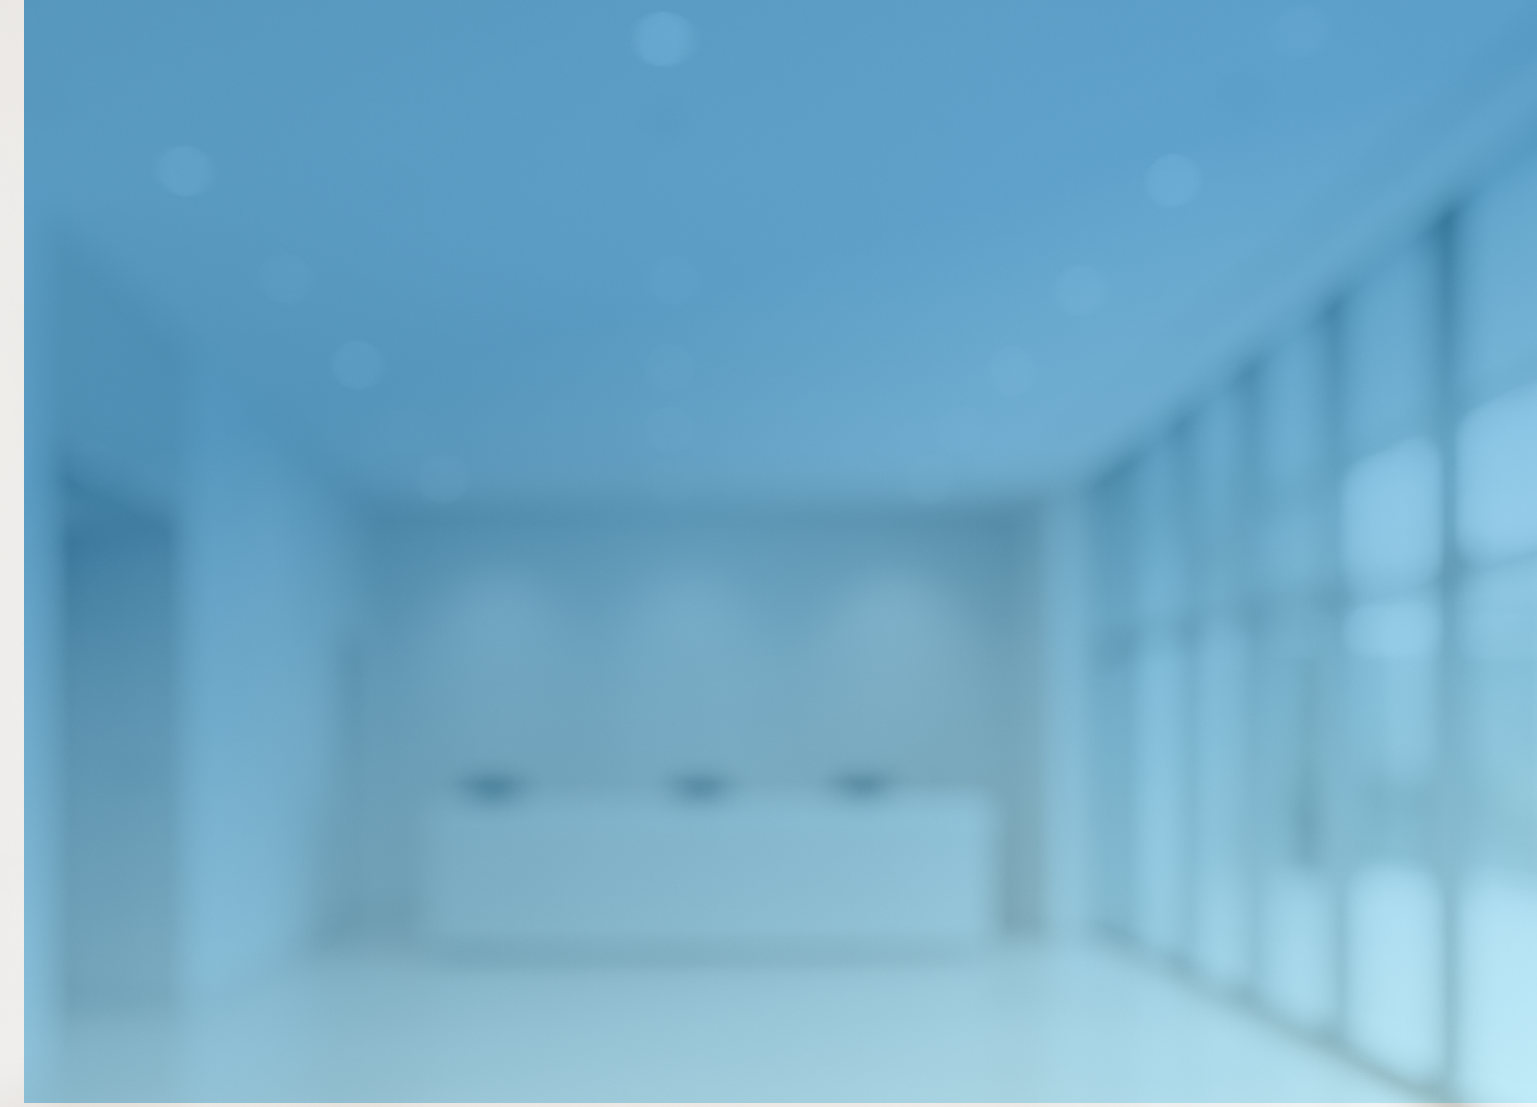
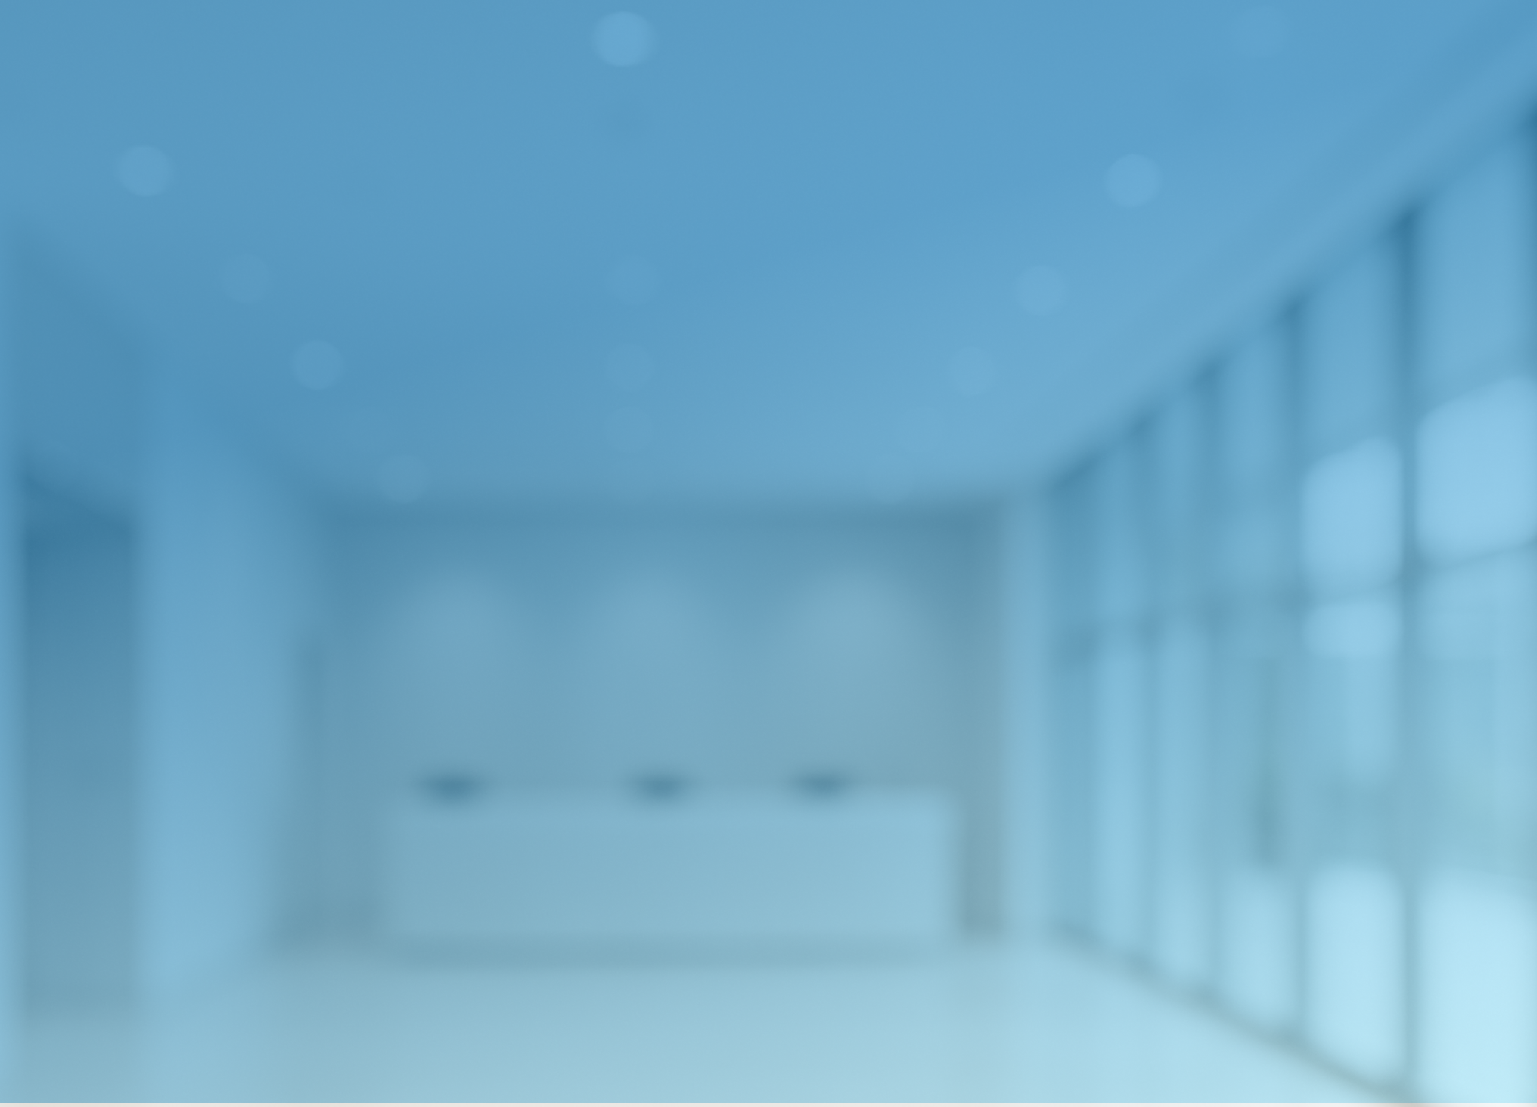
hero blue background

diff --git a/assets/css/style.css b/assets/css/style.css
@@ -60,7 +60,7 @@ body {
   overflow: hidden;
   /* background: radial-gradient(1200px 400px at 80% -10%, var(--brand-400) / 12%, transparent 60%); */
   /* background-color: #d5f3fb; */
-  background: url("../img/hero-image.png") center center / cover no-repeat;
+  background: url("../img/hero-image-blue.png") center center / cover no-repeat;
 }
 .hero-bg {
   position: absolute;
